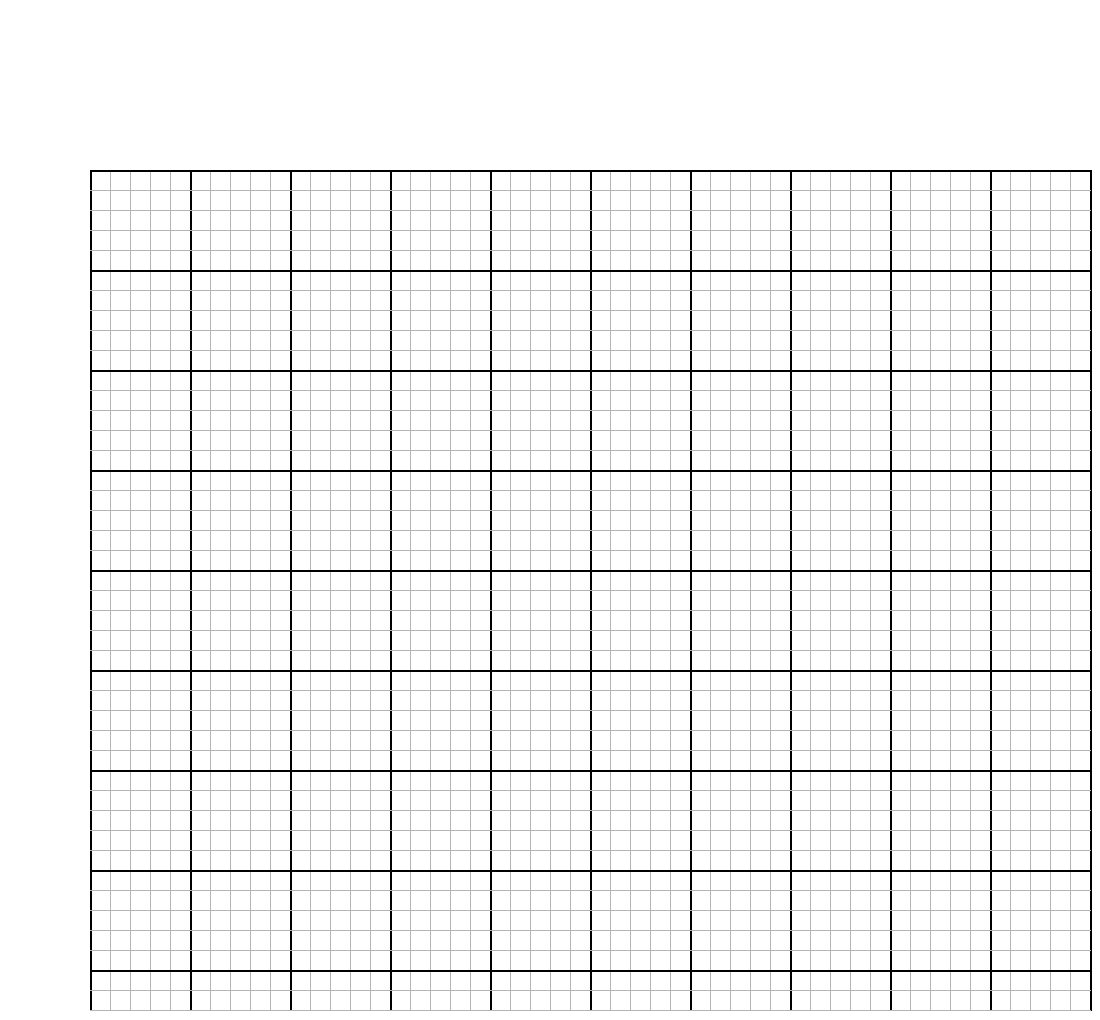
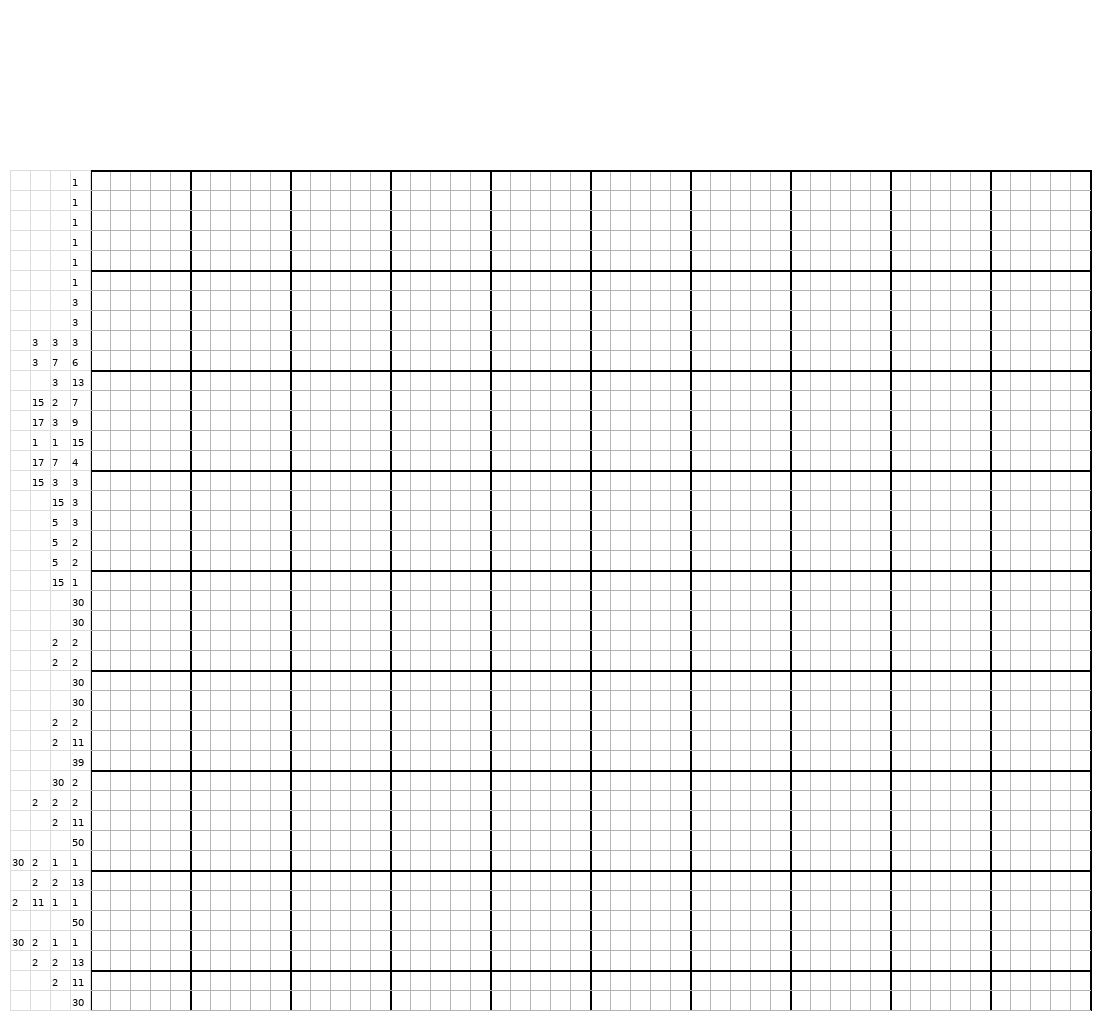
Render left row hints

diff --git a/core/puzzle/renderer.py b/core/puzzle/renderer.py
@@ -22,6 +22,9 @@ MAJOR_GRID_COLOR = (0, 0, 0)
 THIN_WIDTH = 1
 THICK_WIDTH = 2
 
+DEBUG_HINT_GRID = True
+DEBUG_HINT_INDEX = False 
+
 
 def render_puzzle(
     puzzle: Puzzle,
@@ -44,6 +47,24 @@ def render_puzzle(
     _draw_grid(
         draw,
         layout,
+    )
+
+    if DEBUG_HINT_GRID:
+        _draw_hint_grid(
+            draw,
+            layout,
+        )
+
+    if DEBUG_HINT_INDEX:
+        _draw_hint_indexes(
+            draw,
+            layout,
+        )
+
+    _draw_row_hints(
+    draw,
+    puzzle,
+    layout,
     )
 
     image.save(output)
@@ -99,3 +120,189 @@ def _draw_grid(
             fill=MAJOR_GRID_COLOR if major else GRID_COLOR,
             width=THICK_WIDTH if major else THIN_WIDTH,
         )
+
+from PIL import ImageFont
+
+try:
+    FONT = ImageFont.truetype(
+        "/usr/share/fonts/truetype/dejavu/DejaVuSans.ttf",
+        10,
+    )
+except OSError:
+    FONT = ImageFont.load_default()
+
+
+def _draw_row_hints(
+    draw: ImageDraw.ImageDraw,
+    puzzle: Puzzle,
+    layout: Layout,
+) -> None:
+    """
+    Draw left row hints.
+    """
+
+    cell = layout.cell_size
+
+    #
+    # Левая граница области подсказок
+    #
+    left = (
+        layout.puzzle_x
+        - layout.left_hint_cells * cell
+    )
+    
+
+    for row, hints in enumerate(puzzle.row_hints):
+
+        print(
+            row,
+            hints,
+            len(hints),
+            layout.left_hint_cells,
+        )
+        #
+        # Верхняя координата строки
+        #
+        y = (
+            layout.puzzle_y
+            + row * cell
+        )
+
+        hint_count = len(hints)
+
+        #
+        # Первая занятая ячейка
+        #
+        start_cell = (
+            layout.left_hint_cells
+            - hint_count
+        )
+
+        for index, (length, color) in enumerate(hints):
+
+            #
+            # Левая граница текущей ячейки
+            #
+            cell_left = (
+                left
+                + (start_cell + index) * cell
+            )
+
+            text = str(length)
+
+            #
+            # Только высота текста.
+            # По X больше НЕ центрируем.
+            #
+            bbox = draw.textbbox(
+                (0, 0),
+                text,
+                font=FONT,
+            )
+
+            text_height = bbox[3] - bbox[1]
+
+            draw.text(
+                (
+                    cell_left + 2,
+                    y + (cell - text_height) // 2,
+                ),
+                text,
+                fill="black",
+                font=FONT,
+            )
+
+def _draw_hint_grid(
+    draw: ImageDraw.ImageDraw,
+    layout: Layout,
+) -> None:
+    """
+    Draw hint area grid (debug only).
+    """
+
+    cell = layout.cell_size
+
+    left = layout.puzzle_x - layout.left_hint_cells * cell
+    right = layout.puzzle_x
+
+    top = layout.puzzle_y
+    bottom = layout.puzzle_y + layout.puzzle_height
+
+    #
+    # Vertical lines
+    #
+
+    for i in range(layout.left_hint_cells + 1):
+
+        x = left + i * cell
+
+        draw.line(
+            [(x, top), (x, bottom)],
+            fill=(220, 220, 220),
+            width=1,
+        )
+
+    #
+    # Horizontal lines
+    #
+
+    rows = layout.puzzle_height // cell
+
+    for i in range(rows + 1):
+
+        y = top + i * cell
+
+        draw.line(
+            [(left, y), (right, y)],
+            fill=(220, 220, 220),
+            width=1,
+        )
+
+def _draw_hint_indexes(
+    draw: ImageDraw.ImageDraw,
+    layout: Layout,
+) -> None:
+    """
+    Draw indexes of hint cells (debug only).
+    """
+
+    cell = layout.cell_size
+
+    left = layout.puzzle_x - layout.left_hint_cells * cell
+
+    for row in range(layout.puzzle_height // cell):
+
+        y = (
+            layout.puzzle_y
+            + row * cell
+            + cell // 2
+        )
+
+        for col in range(layout.left_hint_cells):
+
+            x = (
+                left
+                + col * cell
+                + cell // 2
+            )
+
+            text = str(col)
+
+            bbox = draw.textbbox(
+                (0, 0),
+                text,
+                font=FONT,
+            )
+
+            w = bbox[2] - bbox[0]
+            h = bbox[3] - bbox[1]
+
+            draw.text(
+                (
+                    x - w // 2,
+                    y - h // 2,
+                ),
+                text,
+                fill="red",
+                font=FONT,
+            )

diff --git a/docs/design_decisions.md b/docs/design_decisions.md
@@ -16,3 +16,14 @@ Geometry отделена от Metadata.
 
 Причина:
 геометрия и экспертная разметка развиваются независимо.
+
+Renderer architecture
+
+render_puzzle()
+    ├── _draw_grid()
+    ├── _draw_row_hints()
+    ├── _draw_column_hints()
+    └── _draw_cells()
+
+Layout is responsible only for geometry.
+Renderer performs no layout calculations.